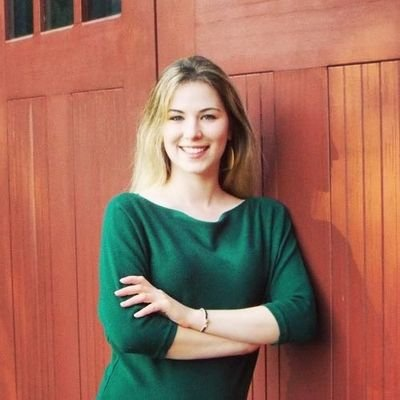
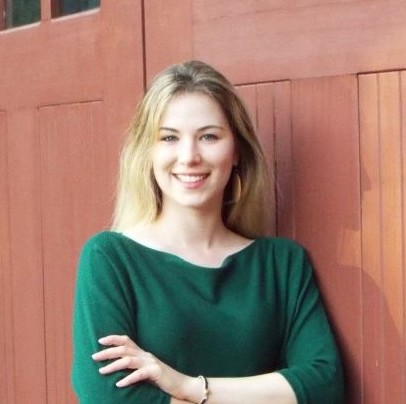
updated presenters

diff --git a/collections/_symposium/2024-symposium.md b/collections/_symposium/2024-symposium.md
@@ -29,88 +29,36 @@ Attuned to postcolonial and African theoretical perspectives concerning digital 
 **Hybrid Format.** By transitioning to a hybrid format, the symposium enriches the participatory experience. Scholars in the region and other in-person attendees will have the opportunity to engage in face-to-face conversations and workshops, while networking with fellow scholars against the backdrop of the University of Ghana’s vibrant campus in Accra. For those unable to attend in person, the symposium will continue to offer virtual participation, ensuring that global audiences can partake in the dialogue.
 
 
-## Featured Speakers
+## Speakers & Panelists
 
+<img align="left" style="margin-right:25px; margin-bottom:25px; border-radius:90%" src="{{ site.baseurl }}/assets/img/symposium4/Kodjo-Atiso.png" alt="Photo of Kodjo" width="150">**Kodjo Atiso**  
+Librarian for Africana and International Studies, University of Kansas
+<br><br>
+***Towards the preservation of flora and fauna: the digitization of pre-independence herbarium in Ghana***
+
+
+<div style="clear:left"></div>
+<hr>
 
 <img align="left" style="margin-right:25px; margin-bottom:25px; border-radius:90%" src="{{ site.baseurl }}/assets/img/symposium4/ElKhatib.jpg" alt="Photo of Randa El Khatib" width="150">**Randa El Khatib**  
 Postdoctoral Fellow in Open Social Scholarship, INKE & Co-director of the Digital Humanities Summer Institute (DHSI)
-
-<div style="clear:left"></div>
-
-
-<img align="left" style="margin-right:25px; margin-bottom:25px; border-radius:90%" src="{{ site.baseurl }}/assets/img/symposium4/menno.jpg" alt="Photo of Menno van Zaanen" width="150">**Menno van Zaanen**  
-Professor of Digital Humanities, South African Centre for Digital Language Resources ([SADiLaR](https://sadilar.org/)), South Africa 
-
-<div style="clear:left"></div>
-
-
-## Panelists & Presenters
-
-
-
-<img align="left" style="margin-right:25px; margin-bottom:25px; border-radius:90%" src="{{ site.baseurl }}/assets/img/symposium4/Karen.jpg" alt="Photo of Karen" width="150">**Karen Ijumba**  
-Senior Researcher, Open Restitution Africa
 <br><br>
-***Poetry Africa Digital Map: An example of how selective and curated digitisation of ephemeral material in collections can enable new pathways of knowledge production*** 
+***Building Bridges: The Journey of Digital Humanities Institute Beirut***
+
 
 <div style="clear:left"></div>
-
 <hr>
-<img align="left" style="margin-right:25px; margin-bottom:25px; border-radius:90%" src="{{ site.baseurl }}/assets/img/symposium4/FuadLawal.jpg" alt="Photo of Fuad Lawal" width="150">**Fu'ad Lawal**  
-Founder and Project Lead, <a href="https://archivi.ng/">Archivi.ng</a>
-<br><br>
-***We're On The Brink Of An Irreparable Loss: Digitizing Nigeria’s Historical Newspapers*** 
-
-<div style="clear:left"></div>
 
 
-
-
-
-<hr>
-<img align="left" style="margin-right:25px; margin-bottom:25px; border-radius:90%" src="{{ site.baseurl }}/assets/img/symposium4/Judith.jpg" alt="Photo of Judity" width="150">**Judith Opoku-Boateng**  
-Director, J.H. Kwabena Nketia Audio-Visual Archives, Institute of African Studies, University of Ghana
-<br><br>
-***Preserving Audio and Video of Ghanian traditional drumming and dance*** 
-
-<div style="clear:left"></div>
-
-
-<hr>
 <img align="left" style="margin-right:25px; margin-bottom:25px; border-radius:90%" src="{{ site.baseurl }}/assets/img/symposium4/Fadera.jpeg" alt="Placeholder" width="150">**Siaka Fadera**  
 Assistant Director, Research and Documentation Division, National Centre for Arts and Culture, The Gambia
 <br><br>
 ***Digitization of the NCA/RDD Oral Archive of The Gambia: Experiences, Challenges, Outlook*** 
 
-<div style="clear:left"></div>
-
-
-
-<hr>
-<img align="left" style="margin-right:25px; margin-bottom:25px; border-radius:90%" src="{{ site.baseurl }}/assets/img/symposium4/ngue.jpg" alt="Photo of Emmanuel Ngue Um" width="150">**Emmanuel Ngue Um**  
-Associate Professor of Linguistics and Digital Humanities, Higher Teacher Training College, University of Yaoundé 1, Cameroon
-<br><br>
-***Language as Software : A Digital Humanities Perspective to Revealing the  Rhizome of African Language Spaces.*** 
 
 <div style="clear:left"></div>
-
-
 <hr>
-<img align="left" style="margin-right:25px; margin-bottom:25px; border-radius:90%" src="{{ site.baseurl }}/assets/img/symposium4/Augustin.jpg" alt="Photo of Augustin Ndione" width="150">**Ndione Augustin**  
-Director, Centre de Linguistique Appliquée de Dakar (CLAD), Université Cheikh Anta Diop de Dakar (UCAD), Senegal
-<br><br>
-***Digitizing a didactic method for applications in local language teaching*** 
 
-<div style="clear:left"></div>
-
-
-
-
-
-
-
-
-<hr>
 <img align="left" style="margin-right:25px; margin-bottom:25px; border-radius:90%" src="{{ site.baseurl }}/assets/img/symposium4/harris.jpg" alt="Photo of Ashleigh" width="150">**Ashleigh Harris**  
 Professor of English, Uppsala University, Sweden  
 Director ALMEDA: African Literary Metadata Projet
@@ -118,9 +66,54 @@ Director ALMEDA: African Literary Metadata Projet
 ***Linked Open Metadata for African Literary Heritage*** 
 
 <div style="clear:left"></div>
+<hr>
+<img align="left" style="margin-right:25px; margin-bottom:25px; border-radius:90%" src="{{ site.baseurl }}/assets/img/symposium4/Karen.jpg" alt="Photo of Karen" width="150">**Karen Ijumba**  
+Senior Researcher, Open Restitution Africa
+<br><br>
+***Poetry Africa Digital Map: An example of how selective and curated digitisation of ephemeral material in collections can enable new pathways of knowledge production*** 
 
 
 
+<div style="clear:left"></div>
+<hr>
+<img align="left" style="margin-right:25px; margin-bottom:25px; border-radius:90%" src="{{ site.baseurl }}/assets/img/symposium4/FuadLawal.jpg" alt="Photo of Fuad Lawal" width="150">**Fu'ad Lawal**  
+Founder and Project Lead, <a href="https://archivi.ng/">Archivi.ng</a>
+<br><br>
+***We're On The Brink Of An Irreparable Loss: Digitizing Nigeria’s Historical Newspapers*** 
+
+
+<div style="clear:left"></div>
+<hr>
+<img align="left" style="margin-right:25px; margin-bottom:25px; border-radius:90%" src="{{ site.baseurl }}/assets/img/symposium4/Augustin.jpg" alt="Photo of Augustin Ndione" width="150">**Augustin Ndione**  
+Director, Centre de Linguistique Appliquée de Dakar (CLAD), Université Cheikh Anta Diop de Dakar (UCAD), Senegal
+<br><br>
+***Digitizing a didactic method for applications in local language teaching*** 
+
+
+<div style="clear:left"></div>
+<hr>
+<img align="left" style="margin-right:25px; margin-bottom:25px; border-radius:90%" src="{{ site.baseurl }}/assets/img/symposium4/ngue.jpg" alt="Photo of Emmanuel Ngue Um" width="150">**Emmanuel Ngue Um**  
+Associate Professor of Linguistics and Digital Humanities, Higher Teacher Training College, University of Yaoundé 1, Cameroon
+<br><br>
+***Language as Software : A Digital Humanities Perspective to Revealing the  Rhizome of African Language Spaces.*** 
+
+<div style="clear:left"></div>
+<hr>
+<img align="left" style="margin-right:25px; margin-bottom:25px; border-radius:90%" src="{{ site.baseurl }}/assets/img/symposium4/Judith.jpg" alt="Photo of Judity" width="150">**Judith Opoku-Boateng**  
+Director, J.H. Kwabena Nketia Audio-Visual Archives, Institute of African Studies, University of Ghana
+<br><br>
+***Preserving Audio and Video of Ghanian traditional drumming and dance*** 
+
+
+<div style="clear:left"></div>
+<hr>
+<img align="left" style="margin-right:25px; margin-bottom:25px; border-radius:90%" src="{{ site.baseurl }}/assets/img/symposium4/menno.jpg" alt="Photo of Menno van Zaanen" width="150">**Menno van Zaanen**  
+Professor of Digital Humanities, South African Centre for Digital Language Resources ([SADiLaR](https://sadilar.org/)), South Africa 
+
+
+
+
+<div style="clear:left"></div>
 <hr>
 <img align="left" style="margin-right:25px; margin-bottom:25px; border-radius:90%" src="{{ site.baseurl }}/assets/img/symposium4/Placeholder_group2.jpg" alt="Photo of Ashleigh" width="150">**And more to be added soon....**  
 
@@ -131,9 +124,25 @@ Director ALMEDA: African Literary Metadata Projet
 <div style="text-align:left; border:5px solid black; border-radius: 10px; padding-left:5px; padding-right:5px; padding-top:5px;background-color:powderblue;" markdown="1">
 
 
-## Schedule & Logistics
+## Workshops
 
-Coming soon!
+
+**Wikidata Solutions for Informal Literary Archives**  
+*Presented by Ursula Obserst and Ashleigh Harris*  
+This workshop will focus on data modeling in Wikidata of different kinds of African literary materials. We will discuss a range of different examples from unrecorded oral forms to self-published works online or in print, from street theatre to web 2.0 literature. The workshop will also consider the challenges of multilingual modeling.
+
+<hr>
+
+**Introduction to Digital Mapping**  
+*Presented by Randa El Khatib*  
+In this workshop, participants will learn key geospatial concepts and terminology, as well as practice the basic steps involved in building a geospatial project, including how to extract geodata from a text, how to organize and enrich spatial data, and how to visualize that data on a variety of user-friendly, open-access mapping platforms. We will also explore what types of research questions can be asked and answered using mapping technologies. This session is intended for beginners.
+
+<hr>
+
+**Skills for Culture -- African Digital Heritage**  
+*Presented by Malkia Okech*
+
+
 
 
 </div>
